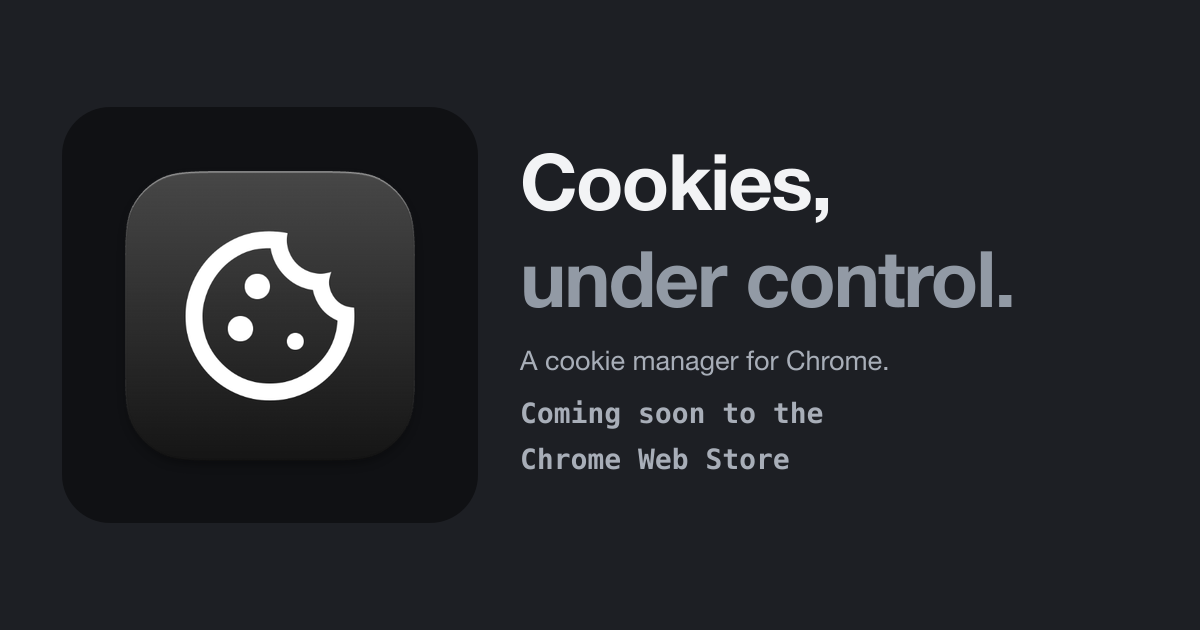
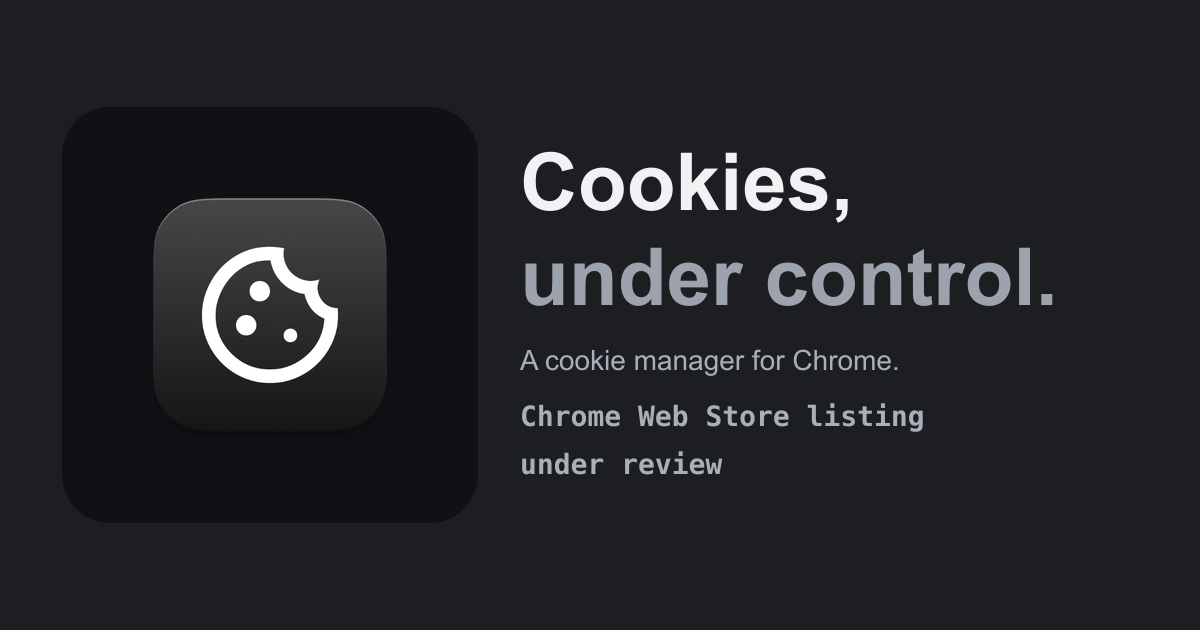
Update store review and publishing guidance (#12)
* Update store review and publishing guidance

* Style privacy link and remove README footer link

---------

diff --git a/docs/index.html b/docs/index.html
@@ -6,7 +6,7 @@
     <title>Cookieater — a cookie manager for Chrome</title>
     <meta
       name="description"
-      content="Cookieater is a Chrome extension for viewing, searching, and managing cookies. Coming soon to the Chrome Web Store."
+      content="Cookieater is a Chrome extension for viewing, searching, and managing cookies. Its Chrome Web Store listing is under review."
     />
     <meta name="theme-color" content="#16171a" />
     <link rel="icon" href="icon.png" />
@@ -14,7 +14,7 @@
     <meta property="og:title" content="Cookieater — cookies, under control" />
     <meta
       property="og:description"
-      content="A compact cookie manager for Chrome. Coming soon to the Chrome Web Store."
+      content="A compact cookie manager for Chrome. The Chrome Web Store listing is under review."
     />
     <meta
       property="og:image"
@@ -44,16 +44,16 @@
             and managing cookies for the site you're on.
           </p>
           <span
-            class="btn store-soon"
+            class="btn store-status"
             style="margin-top: 24px"
-            aria-label="Chrome Web Store release coming soon"
+            aria-label="Chrome Web Store listing under review"
           >
             <i class="fa-brands fa-chrome" aria-hidden="true"></i>
-            Chrome Web Store · Coming soon
+            Chrome Web Store · In review
           </span>
           <p style="font-size: 13px; color: var(--faint); margin: 10px 0 0">
-            A one-click store install is on the way. Manual install instructions
-            are below.
+            The store listing is under review. Manual install instructions are
+            below.
           </p>
         </div>
         <div class="shot">
@@ -230,7 +230,7 @@ cd cookieater"
             <p>
               No. Cookieater reads and writes cookies in your browser and does
               not send cookie data to a Cookieater server. See the
-              <a href="https://github.com/mdopeace/cookieater/blob/master/PRIVACY.md">privacy policy</a>.
+              <a href="https://github.com/mdopeace/cookieater/blob/main/PRIVACY.md">privacy policy</a>.
             </p>
           </div>
           <div>
@@ -269,10 +269,6 @@ cd cookieater"
           ·
           <a href="https://github.com/mdopeace/cookieater/issues"
             >Report an issue</a
-          >
-          ·
-          <a href="https://github.com/mdopeace/cookieater/blob/master/README.md"
-            >README</a
           >
         </span>
       </footer>

diff --git a/docs/style.css b/docs/style.css
@@ -206,13 +206,13 @@ code,
 .btn:hover {
   opacity: 0.85;
 }
-.btn.store-soon {
+.btn.store-status {
   cursor: default;
 }
-.btn.store-soon:hover {
+.btn.store-status:hover {
   opacity: 1;
 }
-.btn.store-soon i {
+.btn.store-status i {
   color: var(--bg);
 }
 .steps {
@@ -317,6 +317,12 @@ code,
   font-size: 13px;
   color: var(--muted);
   margin: 0;
+}
+.faq a {
+  color: var(--muted);
+}
+.faq a:hover {
+  color: var(--text);
 }
 
 /* footer */

diff --git a/README.md b/README.md
@@ -66,14 +66,16 @@ pnpm zip      # package for the Chrome Web Store
 
 ## Publishing
 
-Use [overview.png](docs/screenshots/overview.png) (640×400) as the Chrome Web
-Store screenshot. The store listing also needs a hosted privacy policy URL.
+The initial Chrome Web Store listing has been submitted and is pending review.
+Do not run the publishing workflow while that review is in progress.
 
-After creating the item and completing its initial store listing, add these
-repository Actions secrets. Follow Google's
-[Chrome Web Store API setup guide](https://developer.chrome.com/docs/webstore/using-api)
-to create OAuth credentials and a refresh token with the Chrome Web Store
-scope.
+For future releases, bump the version in `package.json`, then run **Publish
+Chrome Web Store** from the Actions tab on `main`. The workflow builds and
+validates the extension, uploads it to the existing store item, and submits the
+update for review. It does not create GitHub Releases.
+
+The workflow requires these repository Actions secrets in **Settings → Secrets
+and variables → Actions**:
 
 - `CWS_PUBLISHER_ID`
 - `CWS_EXTENSION_ID`
@@ -81,7 +83,11 @@ scope.
 - `CWS_CLIENT_SECRET`
 - `CWS_REFRESH_TOKEN`
 
-Bump the extension version in `package.json`, then run **Publish Chrome Web
-Store** from the Actions tab. The workflow builds and validates the extension,
-uploads it, and submits it for store review. The Chrome Web Store API only
-updates an existing item; create the initial listing in the Developer Dashboard.
+`CWS_PUBLISHER_ID` and `CWS_EXTENSION_ID` are already configured for this
+repository. Their values are `29cea7aa-3273-4f9f-bde0-b2568f046f7d` and
+`eokikmfhgicnmkhldphchbligfgjbkbi`, respectively. Add the remaining three
+secrets using Google's
+[Chrome Web Store API setup guide](https://developer.chrome.com/docs/webstore/using-api)
+to create OAuth credentials and a refresh token with the Chrome Web Store
+scope. Keep the OAuth client secret and refresh token in GitHub Secrets, not in
+the repository or chat.
